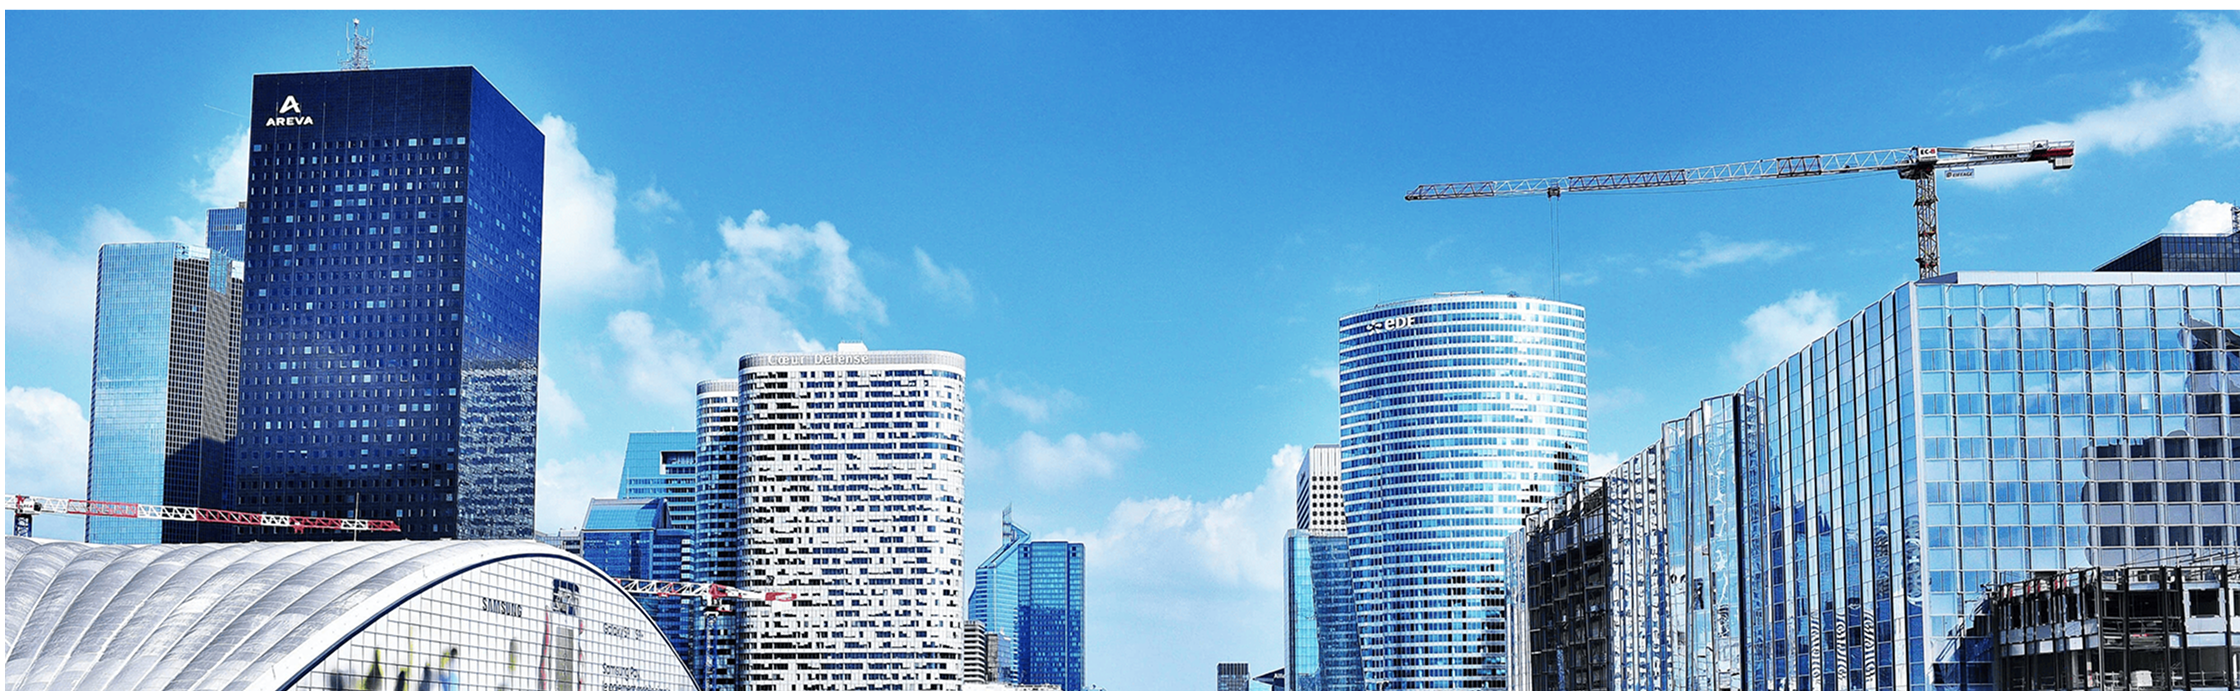
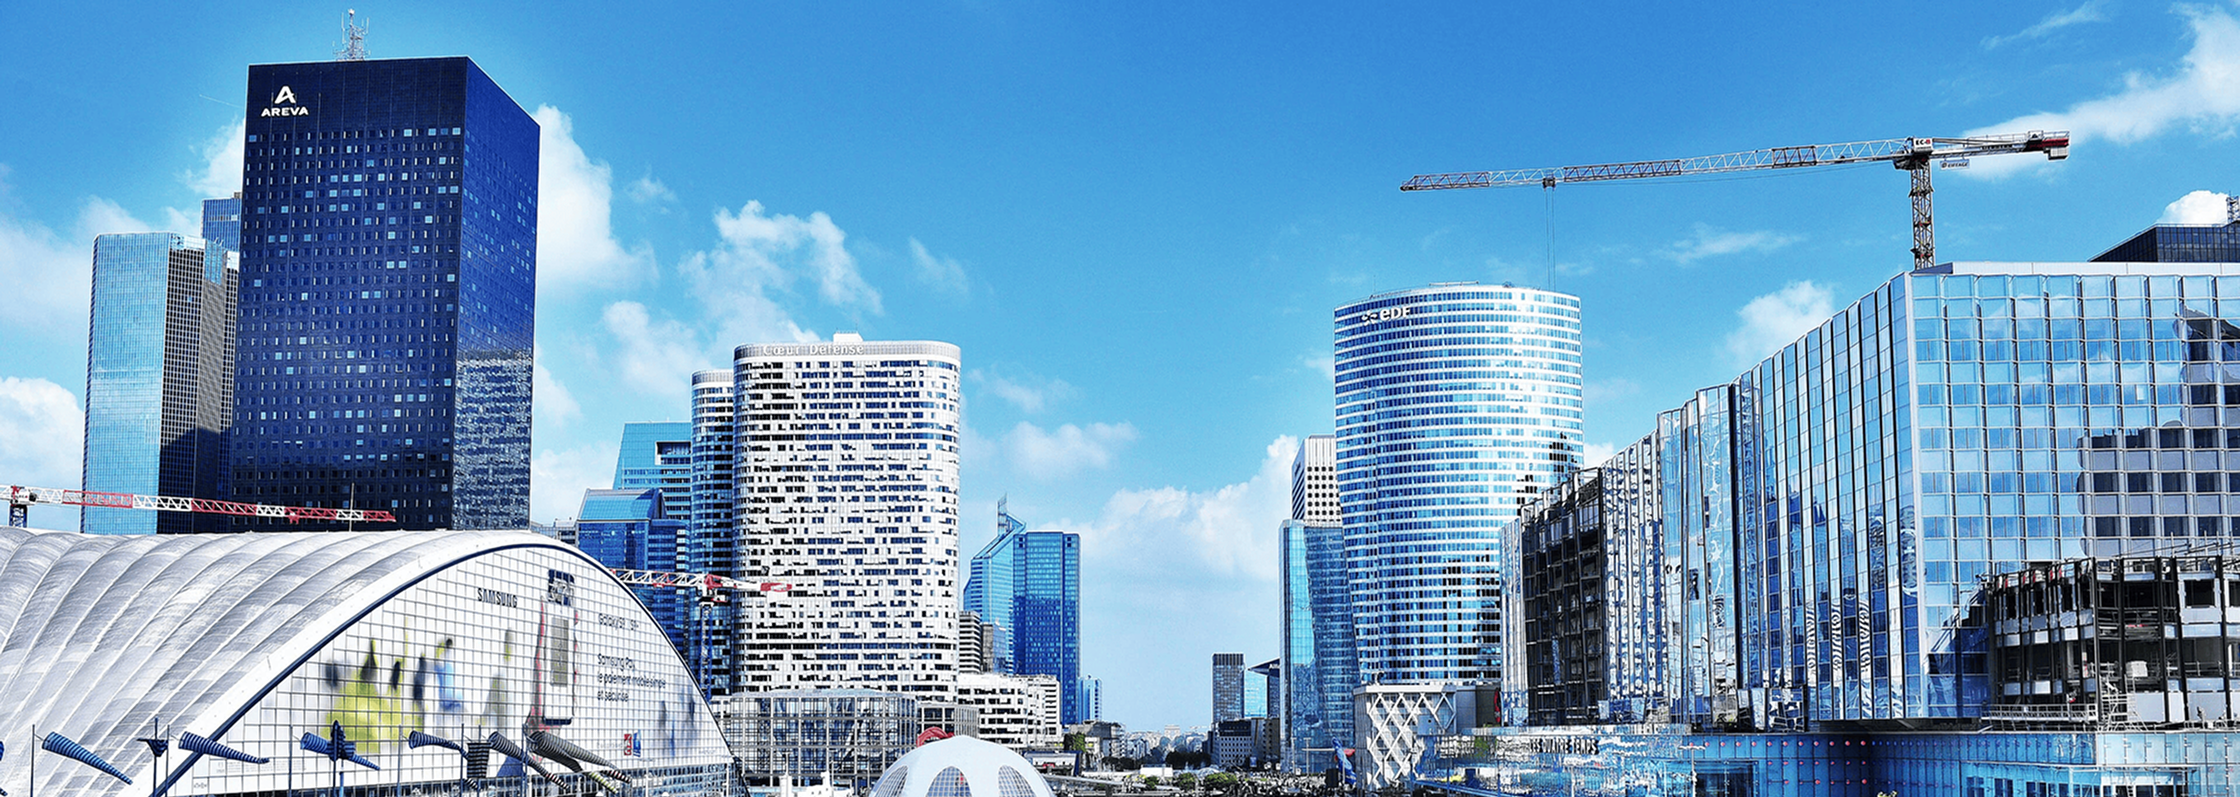
🖼 Dézoom image homepage - Affichage complet
✅ MODIFICATIONS:
- object-fit: cover → contain (dézoom)
- object-position: center top → center center
- Image homepage visible entièrement
- S'étend jusqu'aux extrémités du site

🎯 RÉSULTAT:
- Image homepage plus dézoomée
- Affichage complet de l'image
- Cohérence desktop/mobile

diff --git a/style.css b/style.css
@@ -494,8 +494,8 @@ body {
 .cmp-hero-fbv__image img {
     width: 100%;
     height: 100%;
-    object-fit: cover;
-    object-position: center top;
+    object-fit: contain;
+    object-position: center center;
     margin: 0;
     padding: 0;
     display: block;
@@ -1396,8 +1396,8 @@ body {
     .cmp-hero-fbv__image img {
         width: 100%;
         height: 100%;
-        object-fit: cover;
-        object-position: center;
+        object-fit: contain;
+        object-position: center center;
     }
     
     .cmp-hero-fbv__content {
